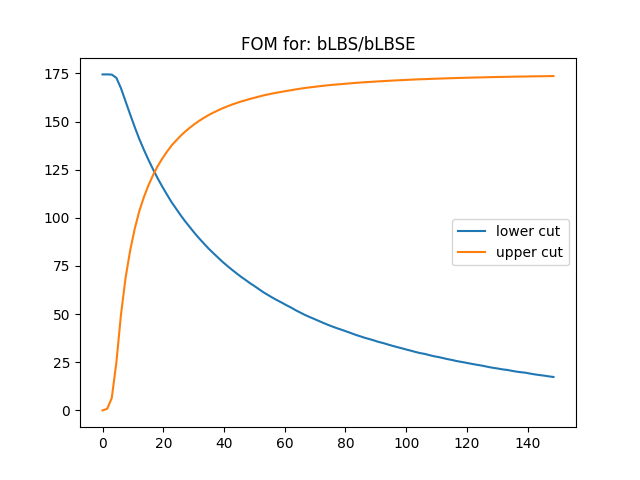
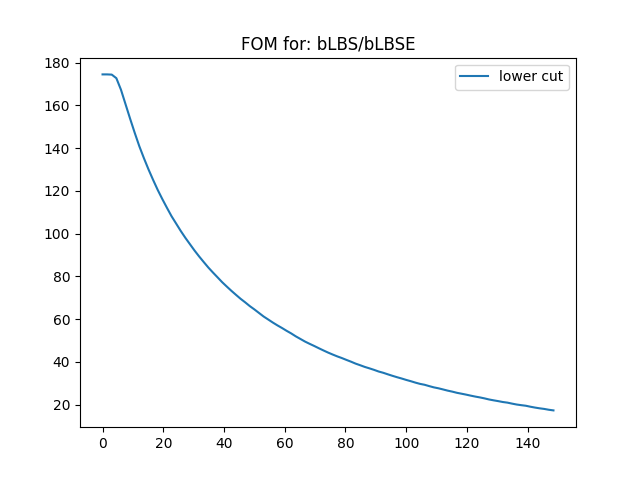
chnaged FOM parameters

diff --git a/FOM_withlimits.py b/FOM_withlimits.py
@@ -56,7 +56,7 @@ def get_signal_composite(v,sel):
 
 
 
-def calc_fom(v,signal,background,minv,maxv,fs,fb):
+def calc_fom(v,signal,background,minv,maxv,fs,fb,show_upper):
     os.chdir("/user/u/u23madalenablanc/flavour-anomalies/SummerLIP23/"+folder)
 
     num_points=100
@@ -101,7 +101,8 @@ def calc_fom(v,signal,background,minv,maxv,fs,fb):
 
     plt.figure()
     plt.plot(var_range,fom,label="lower cut")
-    plt.plot(var_range,fom_opposite,label="upper cut")
+    if show_upper==1:
+        plt.plot(var_range,fom_opposite,label="upper cut")
     plt.title(f"FOM for: {v}")
     plt.legend()
     while True:
@@ -127,9 +128,10 @@ for v in df["var_name"]:
     composite_value = df.loc[df["var_name"] == v, "composite"].iloc[0]
     minv= df.loc[df["var_name"] == v, "min"].iloc[0]
     maxv= df.loc[df["var_name"] == v, "max"].iloc[0]
+    show_upper=df.loc[df["var_name"] == v, "show_upper"].iloc[0]
     print(minv,maxv)
     if composite_value==0:
         signal,back=get_signal_normal(v,sel)
     elif (composite_value)==1:
         signal,back=get_signal_composite(v,sel)
-    calc_fom(v,signal,back,minv,maxv,fs,fb)
+    calc_fom(v,signal,back,minv,maxv,fs,fb,show_upper)
